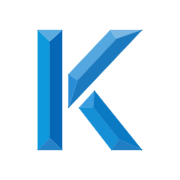
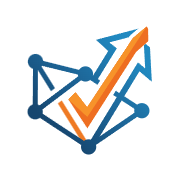
feat: update branding from Lefaklinik to Vertiqo across the application

diff --git a/src/layouts/AppLayout.vue b/src/layouts/AppLayout.vue
@@ -145,7 +145,7 @@ watch(idle, async (value) => {
     <header class="flex items-center gap-4 px-4 pt-4 sm:px-6 lg:gap-6 lg:pt-5 lg:pr-8 lg:pl-5 print:hidden">
       <RouterLink to="/" class="flex shrink-0 items-center gap-2.5" :aria-label="`${klinik.nama}, ke dashboard`" :title="klinik.nama">
         <AppLogo class="size-11 drop-shadow-[0_6px_10px_rgba(5,103,181,0.25)]" />
-        <!-- <span class="text-[22px] leading-none tracking-tight text-slate-900"><b class="font-bold">lefa</b><span class="font-light">klinik</span></span> -->
+        <!-- <span class="text-[22px] leading-none font-bold tracking-tight text-slate-900">Vertiqo</span> -->
       </RouterLink>
 
       <!-- Tab halaman dari modul yang dipilih di rail (desktop) -->
@@ -268,7 +268,7 @@ watch(idle, async (value) => {
       <aside v-if="drawerOpen" class="glass-strong fixed inset-y-3 left-3 z-50 flex w-72 flex-col rounded-3xl lg:hidden" aria-label="Menu">
         <div class="flex items-center justify-between px-5 pt-5 pb-2">
           <span class="flex items-center gap-2 text-[22px] leading-none tracking-tight text-slate-900 dark:text-white">
-            <AppLogo class="size-8" /><span><b class="font-bold">lefa</b><span class="font-light">klinik</span></span>
+            <AppLogo class="size-8" /><span class="font-bold">Vertiqo</span>
           </span>
           <button class="btn-icon size-9" aria-label="Tutup menu" @click="drawerOpen = false"><AppIcon :path="ICON.close" size="size-4" /></button>
         </div>

diff --git a/src/components/AppLogo.vue b/src/components/AppLogo.vue
@@ -1,8 +1,8 @@
 <script setup>
 /**
- * Logo lefaklinik (huruf K bersudut, latar transparan). Sumber tunggal: `public/favicon.svg` — ganti file itu untuk
- * mengganti logo di seluruh aplikasi (favicon, header, login, drawer). Ikon PNG/ICO dibuat dari file yang sama
- * (lihat `frontend/AI-Context/04-conventions.md` bagian Logo).
+ * Logo Vertiqo (jaringan simpul + panah naik + centang oranye, latar transparan). Sumber tunggal: `public/favicon.svg` —
+ * ganti file itu untuk mengganti logo di seluruh aplikasi (favicon, header, login, drawer). Ikon PNG/ICO dibuat dari file
+ * yang sama (lihat `frontend/AI-Context/04-conventions.md` bagian Logo).
  */
 defineProps({
   /** Teks alternatif; kosong = dekoratif (nama klinik/produk sudah tertulis di sebelahnya). */

diff --git a/src/lib/menu.js b/src/lib/menu.js
@@ -1,5 +1,5 @@
 /**
- * Menu navigasi Lefaklinik: MODUL (grup, satu tombol di rail kiri) -> ITEM halaman (tampil di navbar saat modulnya dipilih).
+ * Menu navigasi Vertiqo: MODUL (grup, satu tombol di rail kiri) -> ITEM halaman (tampil di navbar saat modulnya dipilih).
  * Modul: `key` (unik), `title`, `description`, `icon`. Item: `label`, `to`, `izin`, `match`, `icon`, metadata pencarian.
  * `izin` = tampil bila user punya SALAH SATU izin (sama dengan `meta.izin` route); kosong = semua user.
  * Modul tanpa item yang boleh diakses tidak ditampilkan. Administrator memegang semua izin. Ikon: path SVG (Heroicons outline 24px).

diff --git a/src/lib/algoliaSearch.js b/src/lib/algoliaSearch.js
@@ -1,5 +1,5 @@
 /**
- * Algolia Search Engine untuk Menu, Modul, Aksi Cepat & Navigasi Lefaklinik.
+ * Algolia Search Engine untuk Menu, Modul, Aksi Cepat & Navigasi Vertiqo.
  * Menyediakan Algolia-style fuzzy matching, typo tolerance (Damerau-Levenshtein),
  * multi-token search, ranking relevance, text highlighting, dan recent searches history.
  */

diff --git a/src/stores/klinik.js b/src/stores/klinik.js
@@ -10,7 +10,7 @@ export const useKlinikStore = defineStore('klinik', () => {
   const info = ref(null)
   let pending = null
 
-  const nama = computed(() => info.value?.klinik?.nama || 'Lefaklinik')
+  const nama = computed(() => info.value?.klinik?.nama || 'Vertiqo')
 
   function muat(paksa = false) {
     if (pending && !paksa) return pending

diff --git a/src/components/CommandPalette.vue b/src/components/CommandPalette.vue
@@ -1,6 +1,6 @@
 <script setup>
 /**
- * Global Search / Algolia DocSearch Modal untuk Lefaklinik.
+ * Global Search / Algolia DocSearch Modal untuk Vertiqo.
  * Mendukung shortcut Ctrl/⌘+K, Alt+K, atau '/' dari mana saja.
  * Fitur:
  * - Algolia fuzzy matching & typo tolerance (Damerau-Levenshtein)

diff --git a/index.html b/index.html
@@ -9,7 +9,7 @@
     <link rel="apple-touch-icon" href="/apple-touch-icon.png" />
     <link rel="manifest" href="/site.webmanifest" />
     <meta name="theme-color" content="#0567B5" />
-    <title>Lefaklinik</title>
+    <title>Vertiqo</title>
   </head>
   <body>
     <div id="app"></div>

diff --git a/AI-Context/04-conventions.md b/AI-Context/04-conventions.md
@@ -80,17 +80,22 @@
 
 ## Logo produk
 
-- **Sumber tunggal: `public/favicon.svg`** — huruf K bersudut biru (12 faset), latar transparan, digambar ulang sebagai vektor dari
-  gambar logo yang diberikan user (1 Okt 2026). Ganti file ini untuk mengganti logo di mana pun.
+- **Sumber tunggal: `public/favicon.svg`** — logo Vertiqo: jaringan 5 simpul biru (gradien navy `#16466F` → biru `#2189C0`),
+  panah naik berkerangka biru, centang oranye dua faset (`#F7932A` terang, `#EE6E21` gelap) + garis oranye tipis; latar transparan,
+  `viewBox` persegi. Celah di sekeliling centang dan di persilangan garis dibuat dengan `<mask>` (bukan garis putih) sehingga tetap
+  transparan di mode gelap. Digambar ulang sebagai vektor dari gambar logo PNG yang diberikan user (5 Okt 2026), bukan file asli.
+  Ganti file ini untuk mengganti logo di mana pun.
 - Pakai komponen **`<AppLogo class="size-11" />`** (`components/AppLogo.vue`, `<img>` ke favicon.svg) — jangan menyalin SVG ke template.
   Dipakai di header `AppLayout`, drawer mobile, dan `LoginView` (pojok kiri atas panel form + lingkaran putih "avatar" di bawah kutipan).
 - Ikon turunan dibuat dari favicon.svg dengan **`npm run ikon`** (`scripts/buat-ikon.mjs`, Chrome headless lewat `playwright-core`;
   set `CHROME_PATH` bila Chrome tidak di lokasi default Windows): `favicon.ico` (16/32/48, juga disalin ke `backend/public/`),
-  `icon-192.png`, `icon-512.png` (manifest), `apple-touch-icon.png` (180 px, latar putih). Jalankan ulang setiap logo berubah.
-- `index.html` memuat favicon SVG + ICO, apple-touch-icon, `site.webmanifest` (nama "lefaklinik", `theme_color` #0567B5), `<title>` "Lefaklinik".
-- **Nama produk: lefaklinik** (sejak 1 Okt 2026, sebelumnya e-klinik). **Header desktop hanya logo K** (wordmark di header sengaja
-  dikomentari oleh user di `AppLayout.vue` — jangan dikembalikan tanpa diminta); drawer mobile: logo + wordmark `<b>lefa</b>` tebal +
-  `klinik` tipis, ditulis huruf kecil; di kalimat/judul ditulis "Lefaklinik". Nama teknis tetap `eklinik` (folder, database, container,
+  `icon-192.png`, `icon-512.png` (manifest), `apple-touch-icon.png` (180 px, latar putih). Jalankan ulang setiap logo berubah
+  (terakhir 5 Okt 2026 untuk logo Vertiqo).
+- `index.html` memuat favicon SVG + ICO, apple-touch-icon, `site.webmanifest` (nama "Vertiqo", `theme_color` #0567B5), `<title>` "Vertiqo".
+- **Nama produk: Vertiqo** (sejak 5 Okt 2026; sebelumnya lefaklinik sejak 1 Okt 2026, awalnya e-klinik) — ditulis persis "Vertiqo"
+  (V kapital) di judul, kalimat, dan wordmark, **tanpa embel-embel "klinik"** (bukan "Vertiqo Klinik", tanpa wordmark dua bagian).
+  **Header desktop hanya logo** (wordmark di header sengaja dikomentari oleh user di `AppLayout.vue` — jangan dikembalikan tanpa
+  diminta); drawer mobile: logo + wordmark "Vertiqo" tebal satu kata. Nama teknis tetap `eklinik` (folder, database, container,
   `config/eklinik.php`, email demo `@eklinik.test`, kunci `localStorage`) — jangan diganti tanpa migrasi data.
 - Logo = identitas **produk**. Kop dokumen cetak (struk, tiket, etiket, consent) tetap memakai identitas **klinik** dari pengaturan.
 

diff --git a/AI-Context/README.md b/AI-Context/README.md
@@ -1,4 +1,4 @@
-# AI-Context — Frontend Lefaklinik
+# AI-Context — Frontend Vertiqo
 
 Konteks untuk AI assistant (dan developer baru) yang akan bekerja di `frontend/`.
 
@@ -23,7 +23,7 @@ Dokumen per fitur (backend + frontend): `backend/AI-Context/modul/`.
 - Menu & halaman dibatasi per **izin** (`auth.can('pasien.kelola')`, `meta.izin`, `izin` di menu) — bukan kode peran. Administrator
   memegang semua izin. Backend tetap sumber kebenaran hak akses.
 - User lintas cabang memilih **cabang aktif** di header (dikirim sebagai header `X-Cabang-Id`); staf cabang terkunci ke cabangnya.
-- Nama klinik, kop struk, lebar kertas dari `GET /info` (`useKlinikStore`) — jangan menulis "Lefaklinik" / nama klinik di template (kecuali wordmark produk di `AppLayout`).
+- Nama klinik, kop struk, lebar kertas dari `GET /info` (`useKlinikStore`) — jangan menulis "Vertiqo" / nama klinik di template (kecuali wordmark produk di `AppLayout`).
 - Bahasa UI: **Bahasa Indonesia**.
 
 ## Aturan emas

diff --git a/AI-Context/07-navigasi-modul.md b/AI-Context/07-navigasi-modul.md
@@ -4,7 +4,7 @@ Navigasi dua tingkat (sejak 30 Sep 2026). Rail kiri tetap bergaya lama (pil kaca
 tetapi **satu tombol = satu modul**; navbar berisi **halaman milik modul yang dipilih**.
 
 ```
- [K]                       Resep  [Obat & Stok]              Cari…  Admin (A) ⏻     ← header: logo · tab halaman modul · alat
+ [V]                       Resep  [Obat & Stok]              Cari…  Admin (A) ⏻     ← header: logo · tab halaman modul · alat
  ╭──╮
  │⌂ │  Beranda
  │♙ │  Pendaftaran            <RouterView />

diff --git a/AI-Context/01-overview.md b/AI-Context/01-overview.md
@@ -42,7 +42,7 @@ menyajikan `dist/` dari Nginx di container yang sama dengan API, di http://local
 Syarat: repo ini berada di folder `frontend/` sejajar dengan `backend/`:
 
 ```
-lefaklinik/     (folder: eklinik)
+vertiqo/        (folder: eklinik)
 ├── backend/    klinik-backend (docker-compose.yml di sini)
 └── frontend/   repo ini
 ```

diff --git a/README.md b/README.md
@@ -1,4 +1,4 @@
-# Lefaklinik — Frontend
+# Vertiqo — Frontend
 
 Antarmuka sistem informasi klinik: Vue 3 SPA dengan Vite, Vue Router, Pinia, Tailwind CSS 4, dan Axios.
 Membutuhkan backend REST API dari repo [klinik-backend](https://github.com/muhBilal/klinik-backend).
